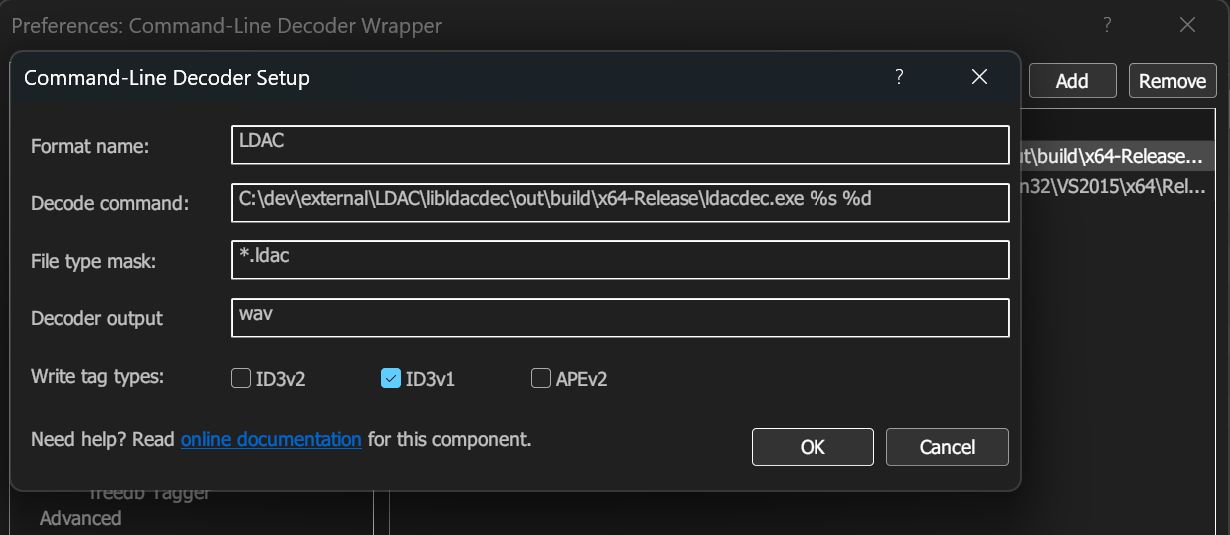
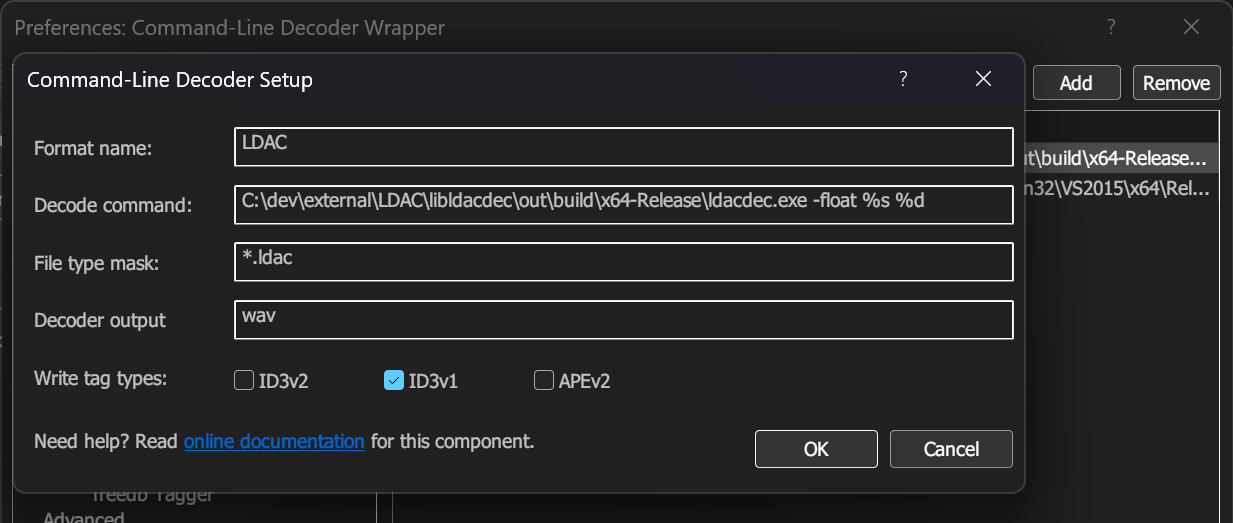
added -float output option to the decoder to avoid clamping

Changed region(s): [[0.0, 0.0, 1.0, 1.0]]

diff --git a/ldacdec.c b/ldacdec.c
@@ -11,12 +11,12 @@
 
 #include "sndfile.h"
 
-SNDFILE *openAudioFile( const char *fileName, int freq, int channels )
+SNDFILE *openAudioFile( const char *fileName, int freq, int channels, int floatOutput )
 {
     SF_INFO sfinfo = { 
         .samplerate = freq, 
         .channels = channels,
-        .format = SF_FORMAT_WAV | SF_FORMAT_PCM_16,
+        .format = SF_FORMAT_WAV | (floatOutput ? SF_FORMAT_FLOAT : SF_FORMAT_PCM_16),
     };
     fprintf(stderr, "opening \"%s\" for writing ...\n", fileName );
     fprintf(stderr, "sampling frequency: %d\n", freq );
@@ -34,13 +34,22 @@ SNDFILE *openAudioFile( const char *fileName, int freq, int channels )
 #define BUFFER_SIZE (680*2)
 #define PCM_BUFFER_SIZE (256*2)
 
-int main(int argc, char *args[] )
+int main(int argc, char * args[] )
 {
     if( argc < 2 )
     {
-        fprintf(stderr, "usage:\n\t%s [input] [output]\n", args[0] );
+        fprintf(stderr, "usage:\n\t%s [-float] [input] [output]\n", args[0] );
         return EXIT_SUCCESS;
     }
+
+	int floatOutput = 0;
+	if (argc > 1 && strcmp(args[1], "-float") == 0)
+	{
+		floatOutput = 1;
+		argc--;
+        args++;
+	}
+
     const char *inputFile = args[1];
     const char *audioFile = "output.wav";
 
@@ -63,7 +72,9 @@ int main(int argc, char *args[] )
 
     uint8_t buf[BUFFER_SIZE];
     uint8_t *ptr = NULL;
-    int16_t pcm[PCM_BUFFER_SIZE] = { 0 };
+    int16_t pcm16[PCM_BUFFER_SIZE] = { 0 };
+    float pcmf[PCM_BUFFER_SIZE] = { 0 };
+	void* pcm = floatOutput ? (void*)pcmf : (void*)pcm16;
     size_t filePosition = 0;
     int blockId = 0;
     int bytesInBuffer = 0;
@@ -89,19 +100,22 @@ int main(int argc, char *args[] )
       
         memset( pcm, 0, sizeof(pcm) );
         LOG("count === %4d ===\n", blockId++ );
-        ret = ldacDecode( &dec, ptr, pcm, &bytesUsed ); 
+        ret = ldacDecode( &dec, ptr, pcm, &bytesUsed, floatOutput ? SAMPLE_TYPE_FLOAT : SAMPLE_TYPE_SHORT );
         if( ret < 0 )
             break;
         LOG_ARRAY( pcm, "%4d, " );
         if( out == NULL )
         {
             fprintf(stderr, "auto detect format!\n");
-            out = openAudioFile( audioFile, ldacdecGetSampleRate( &dec ), ldacdecGetChannelCount( &dec ) ); 
+            out = openAudioFile( audioFile, ldacdecGetSampleRate( &dec ), ldacdecGetChannelCount( &dec ), floatOutput );
             if( out == NULL )
                 return EXIT_FAILURE;
         }
 
-        sf_writef_short( out, pcm, dec.frame.frameSamples );
+        if (floatOutput)
+            sf_writef_float( out, pcm, dec.frame.frameSamples );
+        else
+            sf_writef_short( out, pcm, dec.frame.frameSamples );
         filePosition += bytesUsed;
     }
 

diff --git a/libldacdec.c b/libldacdec.c
@@ -404,6 +404,18 @@ static void pcmFloatToShort( frame_t *this, int16_t *pcmOut )
     }
 }
 
+static void pcmFloatToFloat( frame_t *this, float *pcmOut )
+{
+    int i=0;
+    for(int smpl=0; smpl<this->frameSamples; ++smpl )
+    {
+        for( int ch=0; ch<this->channelCount; ++ch, ++i )
+        {
+            pcmOut[i] = this->channels[ch].pcm[smpl] / 32768.0f;
+        }
+    }
+}
+
 static const int channelConfigIdToChannelCount[] = { 1, 2, 2 };
 
 int ldacdecGetChannelCount( ldacdec_t *this )
@@ -450,7 +462,7 @@ static int decodeFrame( frame_t *this, BitReaderCxt *br )
     return 0;
 }
 
-int ldacDecode( ldacdec_t *this, uint8_t *stream, int16_t *pcm, int *bytesUsed )
+int ldacDecode( ldacdec_t *this, uint8_t *stream, void* pcm, int* bytesUsed, SampleType type)
 {
     BitReaderCxt brObject;
     BitReaderCxt *br = &brObject;
@@ -483,8 +495,10 @@ int ldacDecode( ldacdec_t *this, uint8_t *stream, int16_t *pcm, int *bytesUsed )
             RunImdct( &channel->mdct, channel->spectra, channel->pcm );
         }
         AlignPosition( br, 8 );
-
-        pcmFloatToShort( frame, pcm );
+		if (type == SAMPLE_TYPE_FLOAT)
+			pcmFloatToFloat(frame, pcm);
+		else
+            pcmFloatToShort( frame, pcm );
     }
     AlignPosition( br, (frame->frameLength)*8 + 24 );
 

diff --git a/ldacdec.h b/ldacdec.h
@@ -78,7 +78,11 @@ typedef struct {
 } ldacdec_t;
 
 int ldacdecInit( ldacdec_t *this );
-int ldacDecode( ldacdec_t *this, uint8_t *stream, int16_t *pcm, int *bytesUsed );
+typedef enum {
+	SAMPLE_TYPE_SHORT,
+	SAMPLE_TYPE_FLOAT
+} SampleType;
+int ldacDecode( ldacdec_t *this, uint8_t *stream, void *pcm, int *bytesUsed, SampleType type);
 int ldacNullPacket( ldacdec_t *this, uint8_t *output, int *bytesUsed );
 int ldacdecGetSampleRate( ldacdec_t *this );
 int ldacdecGetChannelCount( ldacdec_t *this );

diff --git a/README.md b/README.md
@@ -6,8 +6,8 @@ Use *vcpkg* to install *libsndfile* and *libsamplerate* visible to cmake on Wind
 #### Known issue
 Cmake under Linux will overwrite the original Makefile.
 #### Foobar2000 configuration options
-<img src="readme pics/foobar encoding.png">
-<img src="readme pics/foobar decoding.png">
+<img src="readme pics/foobar encoding.png" width="42%">
+<img src="readme pics/foobar decoding.png" width="56%">
 
 # LDAC decoder
 
